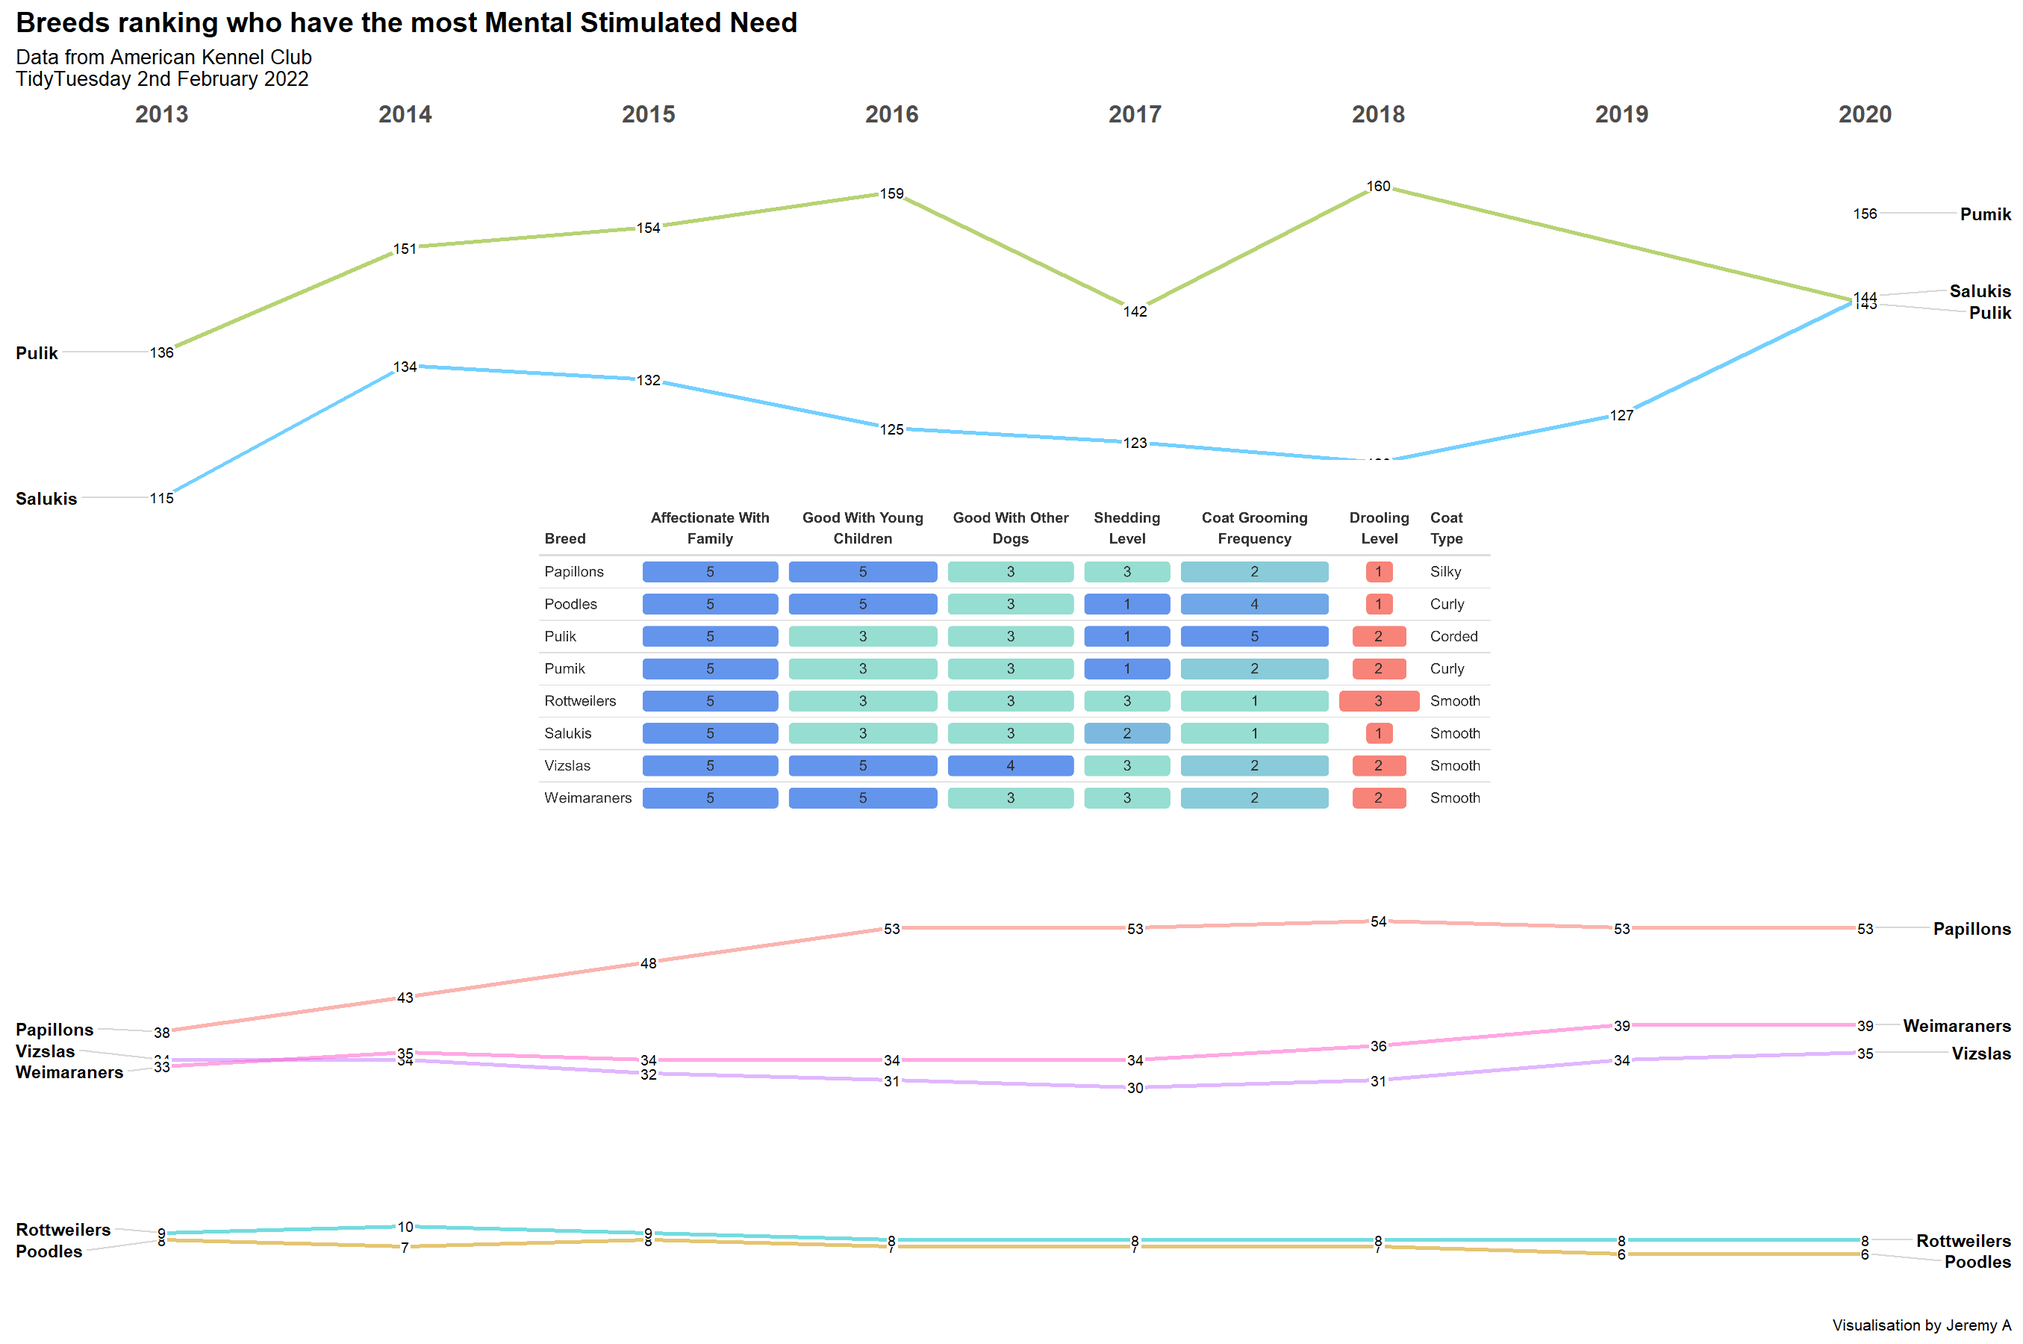
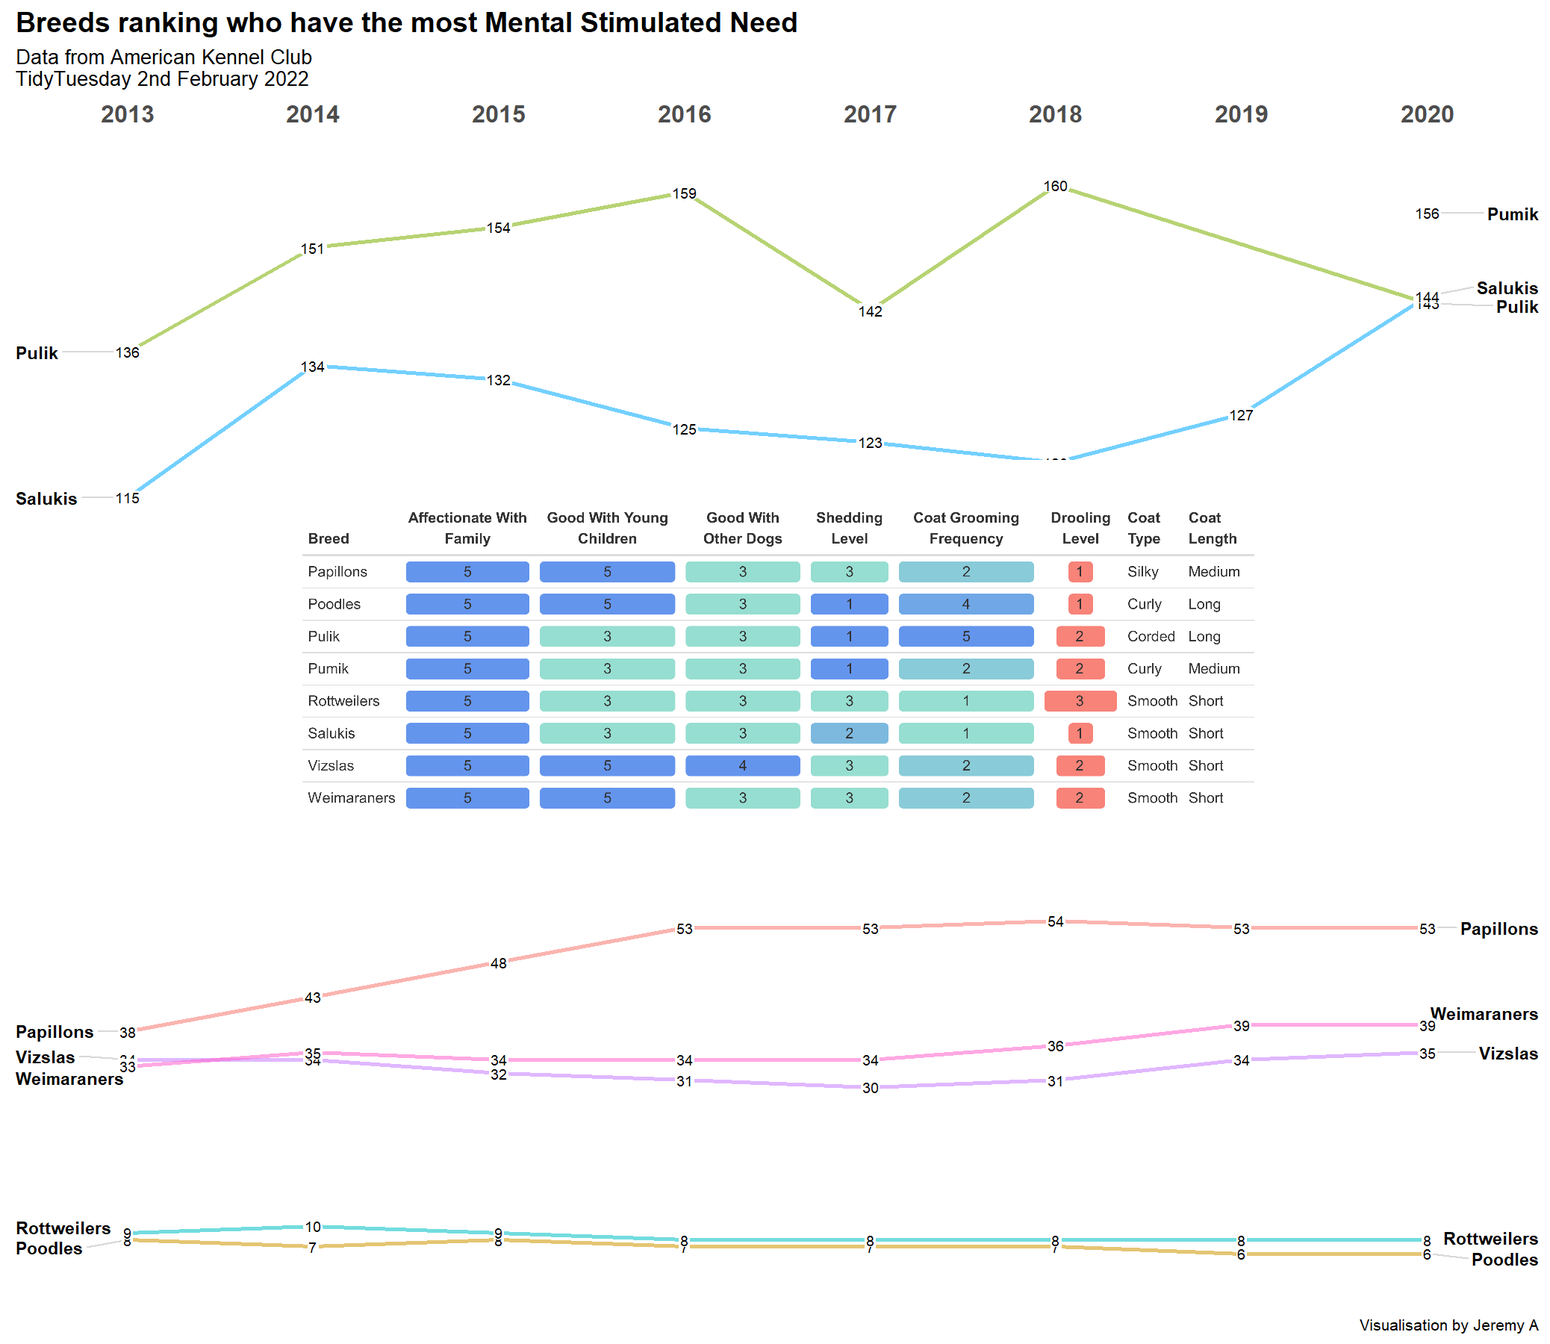
fixed table

diff --git a/2022/2022-02-01/dog_breeds.html b/2022/2022-02-01/dog_breeds.html
@@ -24,11 +24,11 @@
 </head>
 <body style="background-color: white;">
 <div id="htmlwidget_container">
-<div id="htmlwidget-10b8651a7dab3944cf97" class="formattable_widget html-widget" style="width:100%;height:500px;" width="100%" height="500">
+<div id="htmlwidget-016588781e2795f5f922" class="formattable_widget html-widget" style="width:100%;height:500px;" width="100%" height="500">
 
 </div>
 </div>
-<script type="application/json" data-for="htmlwidget-10b8651a7dab3944cf97">{"x":{"html":"<table class=\"table table-condensed\">\n <thead>\n  <tr>\n   <th style=\"text-align:left;\"> Breed <\/th>\n   <th style=\"text-align:center;\"> Affectionate With Family <\/th>\n   <th style=\"text-align:center;\"> Good With Young Children <\/th>\n   <th style=\"text-align:center;\"> Good With Other Dogs <\/th>\n   <th style=\"text-align:center;\"> Shedding Level <\/th>\n   <th style=\"text-align:center;\"> Coat Grooming Frequency <\/th>\n   <th style=\"text-align:center;\"> Drooling Level <\/th>\n   <th style=\"text-align:left;\"> Coat Type <\/th>\n  <\/tr>\n <\/thead>\n<tbody>\n  <tr>\n   <td style=\"text-align:left;\"> Papillons <\/td>\n   <td style=\"text-align:center;\"> <span style=\"display: block; padding: 0 4px; border-radius: 4px; background-color: #6495ed\">5<\/span> <\/td>\n   <td style=\"text-align:center;\"> <span style=\"display: block; padding: 0 4px; border-radius: 4px; background-color: #6495ed\">5<\/span> <\/td>\n   <td style=\"text-align:center;\"> <span style=\"display: block; padding: 0 4px; border-radius: 4px; background-color: #96ded1\">3<\/span> <\/td>\n   <td style=\"text-align:center;\"> <span style=\"display: block; padding: 0 4px; border-radius: 4px; background-color: #96ded1\">3<\/span> <\/td>\n   <td style=\"text-align:center;\"> <span style=\"display: block; padding: 0 4px; border-radius: 4px; background-color: #89cbd8\">2<\/span> <\/td>\n   <td style=\"text-align:center;\"> <span style=\"display: inline-block; direction: rtl; unicode-bidi: plaintext; border-radius: 4px; padding-right: 2px; background-color: #F88379; width: 33.33%\">1<\/span> <\/td>\n   <td style=\"text-align:left;\"> Silky <\/td>\n  <\/tr>\n  <tr>\n   <td style=\"text-align:left;\"> Poodles <\/td>\n   <td style=\"text-align:center;\"> <span style=\"display: block; padding: 0 4px; border-radius: 4px; background-color: #6495ed\">5<\/span> <\/td>\n   <td style=\"text-align:center;\"> <span style=\"display: block; padding: 0 4px; border-radius: 4px; background-color: #6495ed\">5<\/span> <\/td>\n   <td style=\"text-align:center;\"> <span style=\"display: block; padding: 0 4px; border-radius: 4px; background-color: #96ded1\">3<\/span> <\/td>\n   <td style=\"text-align:center;\"> <span style=\"display: block; padding: 0 4px; border-radius: 4px; background-color: #6495ed\">1<\/span> <\/td>\n   <td style=\"text-align:center;\"> <span style=\"display: block; padding: 0 4px; border-radius: 4px; background-color: #70a7e6\">4<\/span> <\/td>\n   <td style=\"text-align:center;\"> <span style=\"display: inline-block; direction: rtl; unicode-bidi: plaintext; border-radius: 4px; padding-right: 2px; background-color: #F88379; width: 33.33%\">1<\/span> <\/td>\n   <td style=\"text-align:left;\"> Curly <\/td>\n  <\/tr>\n  <tr>\n   <td style=\"text-align:left;\"> Pulik <\/td>\n   <td style=\"text-align:center;\"> <span style=\"display: block; padding: 0 4px; border-radius: 4px; background-color: #6495ed\">5<\/span> <\/td>\n   <td style=\"text-align:center;\"> <span style=\"display: block; padding: 0 4px; border-radius: 4px; background-color: #96ded1\">3<\/span> <\/td>\n   <td style=\"text-align:center;\"> <span style=\"display: block; padding: 0 4px; border-radius: 4px; background-color: #96ded1\">3<\/span> <\/td>\n   <td style=\"text-align:center;\"> <span style=\"display: block; padding: 0 4px; border-radius: 4px; background-color: #6495ed\">1<\/span> <\/td>\n   <td style=\"text-align:center;\"> <span style=\"display: block; padding: 0 4px; border-radius: 4px; background-color: #6495ed\">5<\/span> <\/td>\n   <td style=\"text-align:center;\"> <span style=\"display: inline-block; direction: rtl; unicode-bidi: plaintext; border-radius: 4px; padding-right: 2px; background-color: #F88379; width: 66.67%\">2<\/span> <\/td>\n   <td style=\"text-align:left;\"> Corded <\/td>\n  <\/tr>\n  <tr>\n   <td style=\"text-align:left;\"> Pumik <\/td>\n   <td style=\"text-align:center;\"> <span style=\"display: block; padding: 0 4px; border-radius: 4px; background-color: #6495ed\">5<\/span> <\/td>\n   <td style=\"text-align:center;\"> <span style=\"display: block; padding: 0 4px; border-radius: 4px; background-color: #96ded1\">3<\/span> <\/td>\n   <td style=\"text-align:center;\"> <span style=\"display: block; padding: 0 4px; border-radius: 4px; background-color: #96ded1\">3<\/span> <\/td>\n   <td style=\"text-align:center;\"> <span style=\"display: block; padding: 0 4px; border-radius: 4px; background-color: #6495ed\">1<\/span> <\/td>\n   <td style=\"text-align:center;\"> <span style=\"display: block; padding: 0 4px; border-radius: 4px; background-color: #89cbd8\">2<\/span> <\/td>\n   <td style=\"text-align:center;\"> <span style=\"display: inline-block; direction: rtl; unicode-bidi: plaintext; border-radius: 4px; padding-right: 2px; background-color: #F88379; width: 66.67%\">2<\/span> <\/td>\n   <td style=\"text-align:left;\"> Curly <\/td>\n  <\/tr>\n  <tr>\n   <td style=\"text-align:left;\"> Rottweilers <\/td>\n   <td style=\"text-align:center;\"> <span style=\"display: block; padding: 0 4px; border-radius: 4px; background-color: #6495ed\">5<\/span> <\/td>\n   <td style=\"text-align:center;\"> <span style=\"display: block; padding: 0 4px; border-radius: 4px; background-color: #96ded1\">3<\/span> <\/td>\n   <td style=\"text-align:center;\"> <span style=\"display: block; padding: 0 4px; border-radius: 4px; background-color: #96ded1\">3<\/span> <\/td>\n   <td style=\"text-align:center;\"> <span style=\"display: block; padding: 0 4px; border-radius: 4px; background-color: #96ded1\">3<\/span> <\/td>\n   <td style=\"text-align:center;\"> <span style=\"display: block; padding: 0 4px; border-radius: 4px; background-color: #96ded1\">1<\/span> <\/td>\n   <td style=\"text-align:center;\"> <span style=\"display: inline-block; direction: rtl; unicode-bidi: plaintext; border-radius: 4px; padding-right: 2px; background-color: #F88379; width: 100.00%\">3<\/span> <\/td>\n   <td style=\"text-align:left;\"> Smooth <\/td>\n  <\/tr>\n  <tr>\n   <td style=\"text-align:left;\"> Salukis <\/td>\n   <td style=\"text-align:center;\"> <span style=\"display: block; padding: 0 4px; border-radius: 4px; background-color: #6495ed\">5<\/span> <\/td>\n   <td style=\"text-align:center;\"> <span style=\"display: block; padding: 0 4px; border-radius: 4px; background-color: #96ded1\">3<\/span> <\/td>\n   <td style=\"text-align:center;\"> <span style=\"display: block; padding: 0 4px; border-radius: 4px; background-color: #96ded1\">3<\/span> <\/td>\n   <td style=\"text-align:center;\"> <span style=\"display: block; padding: 0 4px; border-radius: 4px; background-color: #7db9df\">2<\/span> <\/td>\n   <td style=\"text-align:center;\"> <span style=\"display: block; padding: 0 4px; border-radius: 4px; background-color: #96ded1\">1<\/span> <\/td>\n   <td style=\"text-align:center;\"> <span style=\"display: inline-block; direction: rtl; unicode-bidi: plaintext; border-radius: 4px; padding-right: 2px; background-color: #F88379; width: 33.33%\">1<\/span> <\/td>\n   <td style=\"text-align:left;\"> Smooth <\/td>\n  <\/tr>\n  <tr>\n   <td style=\"text-align:left;\"> Vizslas <\/td>\n   <td style=\"text-align:center;\"> <span style=\"display: block; padding: 0 4px; border-radius: 4px; background-color: #6495ed\">5<\/span> <\/td>\n   <td style=\"text-align:center;\"> <span style=\"display: block; padding: 0 4px; border-radius: 4px; background-color: #6495ed\">5<\/span> <\/td>\n   <td style=\"text-align:center;\"> <span style=\"display: block; padding: 0 4px; border-radius: 4px; background-color: #6495ed\">4<\/span> <\/td>\n   <td style=\"text-align:center;\"> <span style=\"display: block; padding: 0 4px; border-radius: 4px; background-color: #96ded1\">3<\/span> <\/td>\n   <td style=\"text-align:center;\"> <span style=\"display: block; padding: 0 4px; border-radius: 4px; background-color: #89cbd8\">2<\/span> <\/td>\n   <td style=\"text-align:center;\"> <span style=\"display: inline-block; direction: rtl; unicode-bidi: plaintext; border-radius: 4px; padding-right: 2px; background-color: #F88379; width: 66.67%\">2<\/span> <\/td>\n   <td style=\"text-align:left;\"> Smooth <\/td>\n  <\/tr>\n  <tr>\n   <td style=\"text-align:left;\"> Weimaraners <\/td>\n   <td style=\"text-align:center;\"> <span style=\"display: block; padding: 0 4px; border-radius: 4px; background-color: #6495ed\">5<\/span> <\/td>\n   <td style=\"text-align:center;\"> <span style=\"display: block; padding: 0 4px; border-radius: 4px; background-color: #6495ed\">5<\/span> <\/td>\n   <td style=\"text-align:center;\"> <span style=\"display: block; padding: 0 4px; border-radius: 4px; background-color: #96ded1\">3<\/span> <\/td>\n   <td style=\"text-align:center;\"> <span style=\"display: block; padding: 0 4px; border-radius: 4px; background-color: #96ded1\">3<\/span> <\/td>\n   <td style=\"text-align:center;\"> <span style=\"display: block; padding: 0 4px; border-radius: 4px; background-color: #89cbd8\">2<\/span> <\/td>\n   <td style=\"text-align:center;\"> <span style=\"display: inline-block; direction: rtl; unicode-bidi: plaintext; border-radius: 4px; padding-right: 2px; background-color: #F88379; width: 66.67%\">2<\/span> <\/td>\n   <td style=\"text-align:left;\"> Smooth <\/td>\n  <\/tr>\n<\/tbody>\n<\/table>"},"evals":[],"jsHooks":[]}</script>
-<script type="application/htmlwidget-sizing" data-for="htmlwidget-10b8651a7dab3944cf97">{"viewer":{"width":"100%","height":350,"padding":15,"fill":false},"browser":{"width":"100%","height":500,"padding":40,"fill":false}}</script>
+<script type="application/json" data-for="htmlwidget-016588781e2795f5f922">{"x":{"html":"<table class=\"table table-condensed\">\n <thead>\n  <tr>\n   <th style=\"text-align:left;\"> Breed <\/th>\n   <th style=\"text-align:center;\"> Affectionate With Family <\/th>\n   <th style=\"text-align:center;\"> Good With Young Children <\/th>\n   <th style=\"text-align:center;\"> Good With Other Dogs <\/th>\n   <th style=\"text-align:center;\"> Shedding Level <\/th>\n   <th style=\"text-align:center;\"> Coat Grooming Frequency <\/th>\n   <th style=\"text-align:center;\"> Drooling Level <\/th>\n   <th style=\"text-align:left;\"> Coat Type <\/th>\n   <th style=\"text-align:left;\"> Coat Length <\/th>\n  <\/tr>\n <\/thead>\n<tbody>\n  <tr>\n   <td style=\"text-align:left;\"> Papillons <\/td>\n   <td style=\"text-align:center;\"> <span style=\"display: block; padding: 0 4px; border-radius: 4px; background-color: #6495ed\">5<\/span> <\/td>\n   <td style=\"text-align:center;\"> <span style=\"display: block; padding: 0 4px; border-radius: 4px; background-color: #6495ed\">5<\/span> <\/td>\n   <td style=\"text-align:center;\"> <span style=\"display: block; padding: 0 4px; border-radius: 4px; background-color: #96ded1\">3<\/span> <\/td>\n   <td style=\"text-align:center;\"> <span style=\"display: block; padding: 0 4px; border-radius: 4px; background-color: #96ded1\">3<\/span> <\/td>\n   <td style=\"text-align:center;\"> <span style=\"display: block; padding: 0 4px; border-radius: 4px; background-color: #89cbd8\">2<\/span> <\/td>\n   <td style=\"text-align:center;\"> <span style=\"display: inline-block; direction: rtl; unicode-bidi: plaintext; border-radius: 4px; padding-right: 2px; background-color: #F88379; width: 33.33%\">1<\/span> <\/td>\n   <td style=\"text-align:left;\"> Silky <\/td>\n   <td style=\"text-align:left;\"> Medium <\/td>\n  <\/tr>\n  <tr>\n   <td style=\"text-align:left;\"> Poodles <\/td>\n   <td style=\"text-align:center;\"> <span style=\"display: block; padding: 0 4px; border-radius: 4px; background-color: #6495ed\">5<\/span> <\/td>\n   <td style=\"text-align:center;\"> <span style=\"display: block; padding: 0 4px; border-radius: 4px; background-color: #6495ed\">5<\/span> <\/td>\n   <td style=\"text-align:center;\"> <span style=\"display: block; padding: 0 4px; border-radius: 4px; background-color: #96ded1\">3<\/span> <\/td>\n   <td style=\"text-align:center;\"> <span style=\"display: block; padding: 0 4px; border-radius: 4px; background-color: #6495ed\">1<\/span> <\/td>\n   <td style=\"text-align:center;\"> <span style=\"display: block; padding: 0 4px; border-radius: 4px; background-color: #70a7e6\">4<\/span> <\/td>\n   <td style=\"text-align:center;\"> <span style=\"display: inline-block; direction: rtl; unicode-bidi: plaintext; border-radius: 4px; padding-right: 2px; background-color: #F88379; width: 33.33%\">1<\/span> <\/td>\n   <td style=\"text-align:left;\"> Curly <\/td>\n   <td style=\"text-align:left;\"> Long <\/td>\n  <\/tr>\n  <tr>\n   <td style=\"text-align:left;\"> Pulik <\/td>\n   <td style=\"text-align:center;\"> <span style=\"display: block; padding: 0 4px; border-radius: 4px; background-color: #6495ed\">5<\/span> <\/td>\n   <td style=\"text-align:center;\"> <span style=\"display: block; padding: 0 4px; border-radius: 4px; background-color: #96ded1\">3<\/span> <\/td>\n   <td style=\"text-align:center;\"> <span style=\"display: block; padding: 0 4px; border-radius: 4px; background-color: #96ded1\">3<\/span> <\/td>\n   <td style=\"text-align:center;\"> <span style=\"display: block; padding: 0 4px; border-radius: 4px; background-color: #6495ed\">1<\/span> <\/td>\n   <td style=\"text-align:center;\"> <span style=\"display: block; padding: 0 4px; border-radius: 4px; background-color: #6495ed\">5<\/span> <\/td>\n   <td style=\"text-align:center;\"> <span style=\"display: inline-block; direction: rtl; unicode-bidi: plaintext; border-radius: 4px; padding-right: 2px; background-color: #F88379; width: 66.67%\">2<\/span> <\/td>\n   <td style=\"text-align:left;\"> Corded <\/td>\n   <td style=\"text-align:left;\"> Long <\/td>\n  <\/tr>\n  <tr>\n   <td style=\"text-align:left;\"> Pumik <\/td>\n   <td style=\"text-align:center;\"> <span style=\"display: block; padding: 0 4px; border-radius: 4px; background-color: #6495ed\">5<\/span> <\/td>\n   <td style=\"text-align:center;\"> <span style=\"display: block; padding: 0 4px; border-radius: 4px; background-color: #96ded1\">3<\/span> <\/td>\n   <td style=\"text-align:center;\"> <span style=\"display: block; padding: 0 4px; border-radius: 4px; background-color: #96ded1\">3<\/span> <\/td>\n   <td style=\"text-align:center;\"> <span style=\"display: block; padding: 0 4px; border-radius: 4px; background-color: #6495ed\">1<\/span> <\/td>\n   <td style=\"text-align:center;\"> <span style=\"display: block; padding: 0 4px; border-radius: 4px; background-color: #89cbd8\">2<\/span> <\/td>\n   <td style=\"text-align:center;\"> <span style=\"display: inline-block; direction: rtl; unicode-bidi: plaintext; border-radius: 4px; padding-right: 2px; background-color: #F88379; width: 66.67%\">2<\/span> <\/td>\n   <td style=\"text-align:left;\"> Curly <\/td>\n   <td style=\"text-align:left;\"> Medium <\/td>\n  <\/tr>\n  <tr>\n   <td style=\"text-align:left;\"> Rottweilers <\/td>\n   <td style=\"text-align:center;\"> <span style=\"display: block; padding: 0 4px; border-radius: 4px; background-color: #6495ed\">5<\/span> <\/td>\n   <td style=\"text-align:center;\"> <span style=\"display: block; padding: 0 4px; border-radius: 4px; background-color: #96ded1\">3<\/span> <\/td>\n   <td style=\"text-align:center;\"> <span style=\"display: block; padding: 0 4px; border-radius: 4px; background-color: #96ded1\">3<\/span> <\/td>\n   <td style=\"text-align:center;\"> <span style=\"display: block; padding: 0 4px; border-radius: 4px; background-color: #96ded1\">3<\/span> <\/td>\n   <td style=\"text-align:center;\"> <span style=\"display: block; padding: 0 4px; border-radius: 4px; background-color: #96ded1\">1<\/span> <\/td>\n   <td style=\"text-align:center;\"> <span style=\"display: inline-block; direction: rtl; unicode-bidi: plaintext; border-radius: 4px; padding-right: 2px; background-color: #F88379; width: 100.00%\">3<\/span> <\/td>\n   <td style=\"text-align:left;\"> Smooth <\/td>\n   <td style=\"text-align:left;\"> Short <\/td>\n  <\/tr>\n  <tr>\n   <td style=\"text-align:left;\"> Salukis <\/td>\n   <td style=\"text-align:center;\"> <span style=\"display: block; padding: 0 4px; border-radius: 4px; background-color: #6495ed\">5<\/span> <\/td>\n   <td style=\"text-align:center;\"> <span style=\"display: block; padding: 0 4px; border-radius: 4px; background-color: #96ded1\">3<\/span> <\/td>\n   <td style=\"text-align:center;\"> <span style=\"display: block; padding: 0 4px; border-radius: 4px; background-color: #96ded1\">3<\/span> <\/td>\n   <td style=\"text-align:center;\"> <span style=\"display: block; padding: 0 4px; border-radius: 4px; background-color: #7db9df\">2<\/span> <\/td>\n   <td style=\"text-align:center;\"> <span style=\"display: block; padding: 0 4px; border-radius: 4px; background-color: #96ded1\">1<\/span> <\/td>\n   <td style=\"text-align:center;\"> <span style=\"display: inline-block; direction: rtl; unicode-bidi: plaintext; border-radius: 4px; padding-right: 2px; background-color: #F88379; width: 33.33%\">1<\/span> <\/td>\n   <td style=\"text-align:left;\"> Smooth <\/td>\n   <td style=\"text-align:left;\"> Short <\/td>\n  <\/tr>\n  <tr>\n   <td style=\"text-align:left;\"> Vizslas <\/td>\n   <td style=\"text-align:center;\"> <span style=\"display: block; padding: 0 4px; border-radius: 4px; background-color: #6495ed\">5<\/span> <\/td>\n   <td style=\"text-align:center;\"> <span style=\"display: block; padding: 0 4px; border-radius: 4px; background-color: #6495ed\">5<\/span> <\/td>\n   <td style=\"text-align:center;\"> <span style=\"display: block; padding: 0 4px; border-radius: 4px; background-color: #6495ed\">4<\/span> <\/td>\n   <td style=\"text-align:center;\"> <span style=\"display: block; padding: 0 4px; border-radius: 4px; background-color: #96ded1\">3<\/span> <\/td>\n   <td style=\"text-align:center;\"> <span style=\"display: block; padding: 0 4px; border-radius: 4px; background-color: #89cbd8\">2<\/span> <\/td>\n   <td style=\"text-align:center;\"> <span style=\"display: inline-block; direction: rtl; unicode-bidi: plaintext; border-radius: 4px; padding-right: 2px; background-color: #F88379; width: 66.67%\">2<\/span> <\/td>\n   <td style=\"text-align:left;\"> Smooth <\/td>\n   <td style=\"text-align:left;\"> Short <\/td>\n  <\/tr>\n  <tr>\n   <td style=\"text-align:left;\"> Weimaraners <\/td>\n   <td style=\"text-align:center;\"> <span style=\"display: block; padding: 0 4px; border-radius: 4px; background-color: #6495ed\">5<\/span> <\/td>\n   <td style=\"text-align:center;\"> <span style=\"display: block; padding: 0 4px; border-radius: 4px; background-color: #6495ed\">5<\/span> <\/td>\n   <td style=\"text-align:center;\"> <span style=\"display: block; padding: 0 4px; border-radius: 4px; background-color: #96ded1\">3<\/span> <\/td>\n   <td style=\"text-align:center;\"> <span style=\"display: block; padding: 0 4px; border-radius: 4px; background-color: #96ded1\">3<\/span> <\/td>\n   <td style=\"text-align:center;\"> <span style=\"display: block; padding: 0 4px; border-radius: 4px; background-color: #89cbd8\">2<\/span> <\/td>\n   <td style=\"text-align:center;\"> <span style=\"display: inline-block; direction: rtl; unicode-bidi: plaintext; border-radius: 4px; padding-right: 2px; background-color: #F88379; width: 66.67%\">2<\/span> <\/td>\n   <td style=\"text-align:left;\"> Smooth <\/td>\n   <td style=\"text-align:left;\"> Short <\/td>\n  <\/tr>\n<\/tbody>\n<\/table>"},"evals":[],"jsHooks":[]}</script>
+<script type="application/htmlwidget-sizing" data-for="htmlwidget-016588781e2795f5f922">{"viewer":{"width":"100%","height":350,"padding":15,"fill":false},"browser":{"width":"100%","height":500,"padding":40,"fill":false}}</script>
 </body>
 </html>
